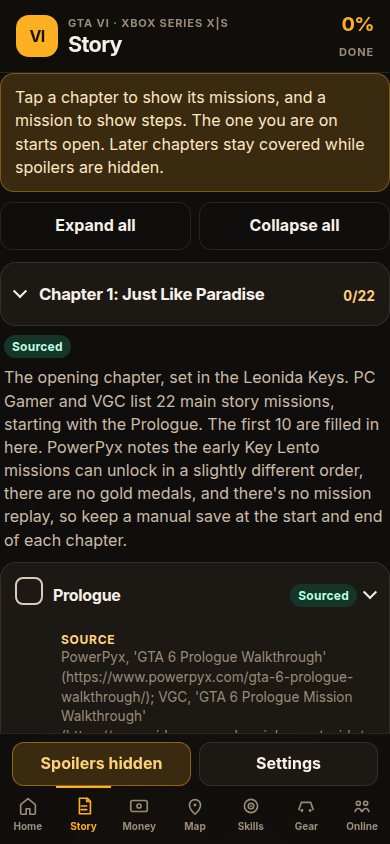
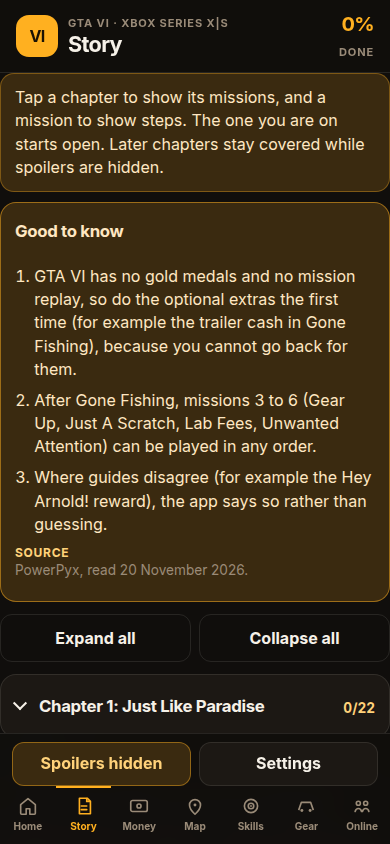
Add a sourced Good to know note above the story chapters.
The note lives in the story data file, stays visible when spoilers are hidden, and can be folded without being dismissed.

diff --git a/scripts/schema.js b/scripts/schema.js
@@ -78,7 +78,7 @@ function envelopeKeys(section) {
   const common = ["version", "lastUpdated", "section", "description"];
   const extra = {
     meta: ["gameTitle", "platform", "releaseDate", "singlePlayerOnly", "onlineAnnounced", "statusNote", "facts"],
-    story: ["chapters"],
+    story: ["notice", "chapters"],
     money: ["earners", "purchases"],
     collectibles: ["areas"],
     secrets: ["entries"],
@@ -232,8 +232,32 @@ function checkMeta(data, errors, ids) {
   });
 }
 
+function checkNotice(notice, errors) {
+  const path = "story.notice";
+  if (!exactKeys(notice, ["title", "source", "lastUpdated", "items"], path, errors)) return;
+  if (typeof notice.title !== "string" || notice.title.trim().length < 3 || notice.title.length > 80) {
+    push(errors, `${path}.title`, "must be short text");
+  }
+  if (typeof notice.source !== "string" || notice.source.trim().length < 8) {
+    push(errors, `${path}.source`, "must name a source");
+  }
+  if (!isRealDate(notice.lastUpdated)) push(errors, `${path}.lastUpdated`, "must be a real YYYY-MM-DD date");
+  if (!Array.isArray(notice.items) || notice.items.length < 1 || notice.items.length > 8) {
+    push(errors, `${path}.items`, "must be 1 to 8 lines");
+    return;
+  }
+  notice.items.forEach((item, index) => {
+    if (typeof item !== "string" || item.trim().length < 10 || item.length > 400) {
+      push(errors, `${path}.items[${index}]`, "must be a sentence up to 400 characters");
+    } else if (item.includes("PLACEHOLDER:")) {
+      push(errors, `${path}.items[${index}]`, "must not be a placeholder");
+    }
+  });
+}
+
 function checkStory(data, errors, ids, chapterOrders) {
   checkEnvelope(data, "story", errors);
+  checkNotice(data.notice, errors);
   if (!Array.isArray(data.chapters) || data.chapters.length < 1) {
     push(errors, "story.chapters", "must be a non-empty array");
     return;

diff --git a/tests/smoke.test.js b/tests/smoke.test.js
@@ -218,6 +218,28 @@ test("story chapters and missions fold, and the choice is kept", () => {
   assert.doesNotMatch(everything, /Chapter 2 mission/);
 });
 
+test("the story notice stays above the chapters when spoilers are hidden", () => {
+  assert.equal(data.story.notice.title, "Good to know");
+  assert.equal(data.story.notice.lastUpdated, "2026-11-20");
+  assert.match(data.story.notice.source, /PowerPyx/);
+  assert.equal(data.story.notice.items.length, 3);
+
+  const hidden = renderMain(model(emptyProgress(NOW), { section: "story" }));
+  const shown = renderMain(model(setSpoilersHidden(emptyProgress(NOW), false, NOW), { section: "story" }));
+  for (const html of [hidden, shown]) {
+    assert.match(html, /<details class="notice" open>/);
+    assert.match(html, /Good to know/);
+    assert.match(html, /no gold medals/);
+    assert.match(html, /missions 3 to 6/);
+    assert.match(html, /guides disagree/);
+    assert.ok(html.indexOf("Good to know") < html.indexOf("data-chapter-toggle"));
+  }
+
+  const broken = structuredClone(data);
+  broken.story.notice.source = "";
+  assert.ok(validateAll(broken).some((error) => error.includes("story.notice.source")));
+});
+
 test("rendered story hides later mission text and escapes markup", () => {
   const progress = emptyProgress(NOW);
   const hidden = renderMain(model(progress, { section: "story" }));

diff --git a/css/styles.css b/css/styles.css
@@ -313,6 +313,33 @@ h1 {
 
 .group-head { margin: 16px 0 10px; }
 
+.notice {
+  margin: 0 0 12px;
+  background: #3a2a10;
+  border: 1px solid rgba(255, 176, 32, 0.5);
+  border-radius: 16px;
+  padding: 2px 14px 10px;
+}
+
+.notice summary {
+  min-height: 52px;
+  display: flex;
+  align-items: center;
+  font-weight: 700;
+  font-size: 1.05rem;
+  letter-spacing: -0.02em;
+  color: #ffe7c2;
+  cursor: pointer;
+}
+
+.notice ol {
+  margin: 0 0 8px;
+  padding-left: 1.2rem;
+  color: #ffe7c2;
+}
+
+.notice li { margin: 8px 0; overflow-wrap: anywhere; }
+
 .fold-bar { display: flex; gap: 8px; margin: 0 0 12px; }
 
 .fold-bar .btn-ghost { width: auto; flex: 1; }

diff --git a/js/render.js b/js/render.js
@@ -290,7 +290,16 @@ function renderStory(model) {
       ${cards}
     </section>`;
   }).join("");
-  return `${banner(INTRO.story)}${controls}${chapters}`;
+  return `${banner(INTRO.story)}${renderNotice(model.data.story.notice)}${controls}${chapters}`;
+}
+
+function renderNotice(notice) {
+  const items = notice.items.map((item) => `<li>${e(item)}</li>`).join("");
+  return `<details class="notice" open>
+    <summary>${e(notice.title)}</summary>
+    <ol>${items}</ol>
+    <p class="source"><span>Source</span> ${e(notice.source)}</p>
+  </details>`;
 }
 
 function renderMoney(model) {

diff --git a/README.md b/README.md
@@ -121,6 +121,8 @@ Known framing only. Do not hide mission or location facts in here.
 
 ### `data/story.json`
 
+`notice` sits above the chapters on the Story tab. It is not hidden by the spoiler switch. Fields: `title`, `source` (non-empty), `lastUpdated` (`YYYY-MM-DD`), and `items` (1 to 8 sentences, no `PLACEHOLDER:` prefix). The player can fold it. It is not a dismiss control.
+
 `chapters` is a non-empty array. Chapter fields: `id`, `order` (unique positive integer), `title`, `verified`, `source`, `generic`, `summary`, `missions`.
 
 Each mission: `id`, `order` (unique inside the chapter), `title`, `verified`, `source`, `generic`, `summary`, `steps`, `bonusObjectives`, `missables`. The three lists are arrays of strings (empty until a guide provides them, at most 12 lines, 300 characters each).
@@ -129,9 +131,22 @@ The shipped file has five chapters, which is what the cited guides list. Chapter
 
 ```json
 {
-  "id": "chapter-1-mission-1",
-  "order": 1,
-  "title": "PLACEHOLDER: Chapter 1 mission 1 - to be filled from a verified guide",
+  "title": "Good to know",
+  "source": "PowerPyx, read 20 November 2026.",
+  "lastUpdated": "2026-11-20",
+  "items": [
+    "GTA VI has no gold medals and no mission replay, so do the optional extras the first time."
+  ]
+}
+```
+
+A placeholder mission still looks like this:
+
+```json
+{
+  "id": "chapter-1-mission-11",
+  "order": 11,
+  "title": "PLACEHOLDER: Chapter 1 mission 11 - to be filled from a verified guide",
   "verified": false,
   "source": null,
   "generic": false,

diff --git a/docs/CONTENT.md b/docs/CONTENT.md
@@ -4,6 +4,8 @@ Game facts live in `/data/*.json`. Replace a placeholder only when you have a so
 
 Chapter 1 missions 1 to 10 are already verified in `data/story.json`. Keep their ids. Do not rewrite that text unless you are correcting it from the named guides. Missions 11 to 22 in that chapter, and chapters 2 to 5, are still placeholders.
 
+`notice` on that file is the Good to know box at the top of Story. It needs a source and a `lastUpdated` date. It is not covered by the spoiler switch. Add a line only when a guide actually says it, and say so in the text when two guides disagree.
+
 Player-facing copy in the app uses British English. Keep new sentences in British English too.
 
 ## Replace one placeholder
